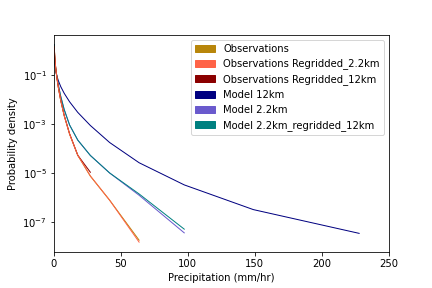
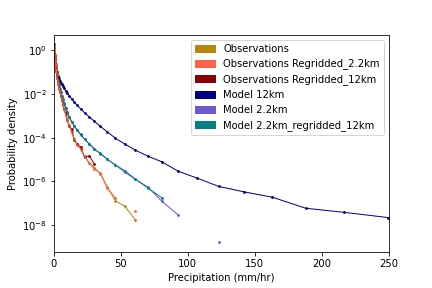
pdfs updated

diff --git a/PrecipitationPDFs/leeds-at-centre/Compare_RCM_CPM_OBS.py b/PrecipitationPDFs/leeds-at-centre/Compare_RCM_CPM_OBS.py
@@ -204,7 +204,7 @@ if jja_status == 'jja':
 ##############################################################################
 x_axis = 'linear'
 y_axis = 'log'
-bin_nos = 20 #(10 gives 12, 30 gives 29, 45 gives 41 bins)
+bin_nos = 60 #(10 gives 12, 30 gives 29, 45 gives 41 bins)
 xlim = 250
 bins_if_log_spaced= bin_nos
 
@@ -232,7 +232,7 @@ for dict, overlapping_status in zip([leeds_data_dict, leeds_data_dict_overlappin
     log_discrete_histogram_lesslegend(dict, cols_dict, bin_nos, "Precipitation (mm/hr)",
                                       patches, True, xlim, x_axis, y_axis)
     #Save
-    plt.savefig("Scripts/UKCP18/PrecipitationPDFs/leeds-at-centre/PDFs/RCMvsCPMvsObs/All{}_{}.png".format(overlapping_status, jja_status))
+    plt.savefig("Scripts/UKCP18/PrecipitationPDFs/leeds-at-centre/Figs/RCMvsCPMvsObs/All{}_{}.png".format(overlapping_status, jja_status))
 
 # ####### Plot - compring 2.2km model and 2.2km regridded observation
 for dict, overlapping_status in zip([leeds_data_dict, leeds_data_dict_overlapping], ["","_Overlapping"]):
@@ -250,7 +250,7 @@ for dict, overlapping_status in zip([leeds_data_dict, leeds_data_dict_overlappin
     # Create plot
     log_discrete_histogram_lesslegend(just_2_2kms, cols_dict, bin_nos, "Precipitation (mm/hr)",
                                       patches, True, False, x_axis, y_axis)
-    plt.savefig("Scripts/UKCP18/PrecipitationPDFs/leeds-at-centre/PDFs//ModelVsObs_2.2km_{}_{}.png".format(overlapping_status, jja_status))
+    plt.savefig("Scripts/UKCP18/PrecipitationPDFs/leeds-at-centre/Figs//ModelVsObs_2.2km_{}_{}.png".format(overlapping_status, jja_status))
 
 
 # ####### Plot just Model, to see effect of regridding
@@ -258,7 +258,6 @@ for dict, overlapping_status in zip([leeds_data_dict, leeds_data_dict_overlappin
     print(dict.keys(), overlapping_status)
     just_model = dict.copy()
     del just_model['Observations Regridded_2.2km'], just_model['Observations'], just_model['Observations Regridded_12km']
-FullTimePeriod_RCMvsCPMvsObs
     cols_dict = {'Model 12km' : 'navy',
                   'Model 2.2km' : 'slateblue',
                   'Model 2.2km_regridded_12km': 'teal'}
@@ -271,9 +270,8 @@ FullTimePeriod_RCMvsCPMvsObs
     # Create plot
     log_discrete_histogram_lesslegend(just_model, cols_dict, bin_nos, "Precipitation (mm/hr)",
                                       patches, True, False, x_axis, y_axis)
-    plt.savefig("Scripts/UKCP18/PrecipitationPDFs/leeds-at-centre/PDFs/RCMvsCPMvsObs/JustModel_{}_{}.png".format(overlapping_status,jja_status))
+    plt.savefig("Scripts/UKCP18/PrecipitationPDFs/leeds-at-centre/Figs/RCMvsCPMvsObs/JustModel_{}_{}.png".format(overlapping_status,jja_status))
 
-#
 # ###############################################################
 ####### Plot just Obs, to see effect of regridding
 for dict, overlapping_status in zip([leeds_data_dict, leeds_data_dict_overlapping], ["","_Overlapping"]):
@@ -294,7 +292,7 @@ for dict, overlapping_status in zip([leeds_data_dict, leeds_data_dict_overlappin
     # Create plot
     log_discrete_histogram_lesslegend(just_obs, cols_dict, bin_nos, "Precipitation (mm/hr)",
                                       patches, True, False, x_axis, y_axis)
-    plt.savefig("Scripts/UKCP18/PrecipitationPDFs/leeds-at-centre/PDFs/RCMvsCPMvsObs/JustObs_{}_{}.png".format(overlapping_status,jja_status))
+    plt.savefig("Scripts/UKCP18/PrecipitationPDFs/leeds-at-centre/Figs/RCMvsCPMvsObs/JustObs_{}_{}.png".format(overlapping_status,jja_status))
 
 #
 # ###############################################################
@@ -313,9 +311,9 @@ for key, val in cols_dict.items():
     patches.append(patch)
 
 # Create plot
-log_discrete_histogram_lesslegend(just_12km, cols_dict, bin_nos, "Precipitation (mm/hr)",
+log_discrete_histogram_lesslegend(just_12km, cols_dict, bin_no, "Precipitation (mm/hr)",
                                   patches, True, False, x_axis, y_axis)
-plt.savefig("Scripts/UKCP18/PrecipitationPDFs/leeds-at-centre/PDFs/RCMvsCPMvsObs/Just12kms_{}.png".format(jja_status))
+plt.savefig("Scripts/UKCP18/PrecipitationPDFs/leeds-at-centre/Figs/RCMvsCPMvsObs/Just12kms_{}.png".format(jja_status))
 
 # ##################### Plot just 12km -Better legend
 for dict, overlapping_status in zip([leeds_data_dict, leeds_data_dict_overlapping], ["","_Overlapping"]):
@@ -340,7 +338,7 @@ for dict, overlapping_status in zip([leeds_data_dict, leeds_data_dict_overlappin
     # Create plot
     df = log_discrete_histogram_lesslegend(just_12km, cols_dict, bin_nos, "Precipitation (mm/hr)",
                                       patches, True, False)
-    plt.savefig("Scripts/UKCP18/PrecipitationPDFs/leeds-at-centre/PDFs/RCMvsCPMvsObs/Just12kms_{}_{}.png".format(overlapping_status, jja_status))
+    plt.savefig("Scripts/UKCP18/PrecipitationPDFs/leeds-at-centre/Figs/RCMvsCPMvsObs/Just12kms_{}_{}.png".format(overlapping_status, jja_status))
 
 
 # # ##########################################################################
@@ -419,7 +417,7 @@ for dict, overlapping_status in zip([leeds_data_dict, leeds_data_dict_overlappin
 
 ##############################################################################
 ##############################################################################
-# Label with proportion of values which are 0, <0.1 etc
+# Table with proportion of values which are 0, <0.1 etc
 ###########################################################################
 ###########################################################################
 just_12km = leeds_data_dict_overlapping.copy()
@@ -460,7 +458,11 @@ model_2_2km = just_12km['Model 2.2km_regridded_12km']
 obs = just_12km['Observations Regridded_12km']
 bins = [0.01, 0.11, 0.21, 0.31, 0.41,0.51, 0.61,0.71,0.81,0.91,1]
 bins = [0.01, 0.21, 0.41, 0.61, 0.81, 1.01, 1.21, 1.41, 1.61 ,1.81, 2.01]
-#        ,2.21, 2.41, 2.61, 2.81, 3.01, 3.21, 3.41, 3.61, 3.81, 4.01]
+bins = [2.01, 4.01, 6.01, 8.01, 10.01, 12.01, 14.01, 16.01, 18.01, 20.01]
+bins = [10.01, 12.01, 14.01, 16.01, 18.01, 20.01, 22.01, 24.01, 26.01]
+
+bins = [20.01, 25.01, 30.01, 35.01, 40.01, 45.01, 50.01, 55.01, 60.01]
+
 
 plt.hist([obs['Precipitation (mm/hr)'], model_12km['Precipitation (mm/hr)'], model_2_2km['Precipitation (mm/hr)']],
           label = ['CEH-GEAR', 'UKCP18 12km', 'UKCP18 2.2km'],bins = bins,

diff --git a/RegionalRainfallStats/Model/Calculate_UKStats.py b/RegionalRainfallStats/Model/Calculate_UKStats.py
@@ -115,6 +115,20 @@ for em in ems:
     if overlapping_period == True:
       # Cut to only overlapping period
       jja = jja.extract(iris.Constraint(year = lambda cell: 1989 < cell < 2001))   
+      
+      
+      
+def smooth(cube,window):
+    return cube.rolling_window('time',iris.analysis.MEAN,window)
+
+# first plot..(merge across the top two cells)
+fig = matplotlib.pyplot.figure(figsize=(16,16))
+ax = matplotlib.pyplot.subplot2grid((2,2),(0,0),colspan=2)
+pid = iris.quickplot.plot(sat_ts,'grey')
+matplotlib.pyplot.axhline(0,linestyle='--',color='grey')
+iris.quickplot.plot(smooth(sat_ts, 12), 'r', linewidth=2.0, label='12-month rolling mean')
+leg = matplotlib.pyplot.legend(loc='lower right')
+
           
     ###########################################
     # Find Max, mean, percentiles
@@ -180,3 +194,113 @@ for em in ems:
 # print(output) 
 # 
    
+   
+   
+   import bottleneck
+import iris
+import numpy as np
+import warnings
+
+
+def _as_cube_coord(cube, name_or_coord):
+    """
+    Returns the cube coordinate corresponding to given coordinate name or cube
+    """
+    if isinstance(name_or_coord, basestring):
+        return cube.coord(name_or_coord)
+    elif isinstance(name_or_coord, iris.coords.Coord):
+        return cube.coord(coord=name_or_coord)
+    else:
+        raise TypeError('%r is not a string or coordinate' % name_or_coord)
+
+
+def _rolling_window_cube_template(cube, dimension, window):
+    """
+    Prepare a cube with the right shape and coordinates to use for a rolling
+    window
+    Copied from iris.cube.Cube.rolling_window
+    """
+    # Use indexing to get a result-cube of the correct shape.
+    # NB. This indexes the data array which is wasted work.
+    # As index-to-get-shape-then-fiddle is a common pattern, perhaps
+    # some sort of `cube.prepare()` method would be handy to allow
+    # re-shaping with given data, and returning a mapping of
+    # old-to-new-coords (to avoid having to use metadata identity)?
+    key = [slice(None, None)] * cube.ndim
+    key[dimension] = slice(None, cube.shape[dimension] - window + 1)
+    new_cube = cube[tuple(key)]
+
+    # now update all of the coordinates to reflect the aggregation
+    for coord_ in cube.coords(dimensions=dimension):
+        if coord_.has_bounds():
+            warnings.warn('The bounds of coordinate %r were ignored in '
+                          'the rolling window operation.' % coord_.name())
+
+        if coord_.ndim != 1:
+            raise ValueError('Cannot calculate the rolling '
+                             'window of %s as it is a multidimensional '
+                             'coordinate.' % coord_.name())
+
+        new_bounds = iris.util.rolling_window(coord_.points, window)
+
+        # Take the first and last element of the rolled window (i.e. the
+        # bounds)
+        new_bounds = new_bounds[:, (0, -1)]
+        new_points = np.mean(new_bounds, axis=-1)
+
+        # wipe the coords points and set the bounds
+        new_coord = new_cube.coord(coord=coord_)
+        new_coord.points = new_points
+        new_coord.bounds = new_bounds
+
+    return new_cube
+
+
+def bottleneck_rolling_window(cube, coord, method_name, window):
+    """
+    Perform fast rolling window aggregation on a cube using bottleneck
+    Like iris.cube.Cube.rolling_window, except much faster because the
+    computation is done with the `bottleneck` package. It takes the same
+    arguments as Cube.rolling_window except for 'method_name' instead of
+    'aggregator'.
+    Parameters
+    ----------
+    method_name : {'sum', 'nansum', 'mean', 'nanmean', 'median', 'std',
+                   'nanstd', 'min', 'nanmin', 'max', 'nanmax'}
+        Name of the operation to apply over the moving window. When prepended
+        with 'move_', must be the name of a top-level function in the
+        `bottleneck` package.
+    Reference
+    ---------
+        https://github.com/kwgoodman/bottleneck
+    """
+
+    window_func = getattr(bottleneck, 'move_' + method_name)
+    coord = _as_cube_coord(cube, coord)
+    dimension, = cube.coord_dims(coord)
+
+    # create a cube with the right metadata
+    new_cube = _rolling_window_cube_template(cube, dimension, window)
+    new_cube.add_cell_method(iris.coords.CellMethod(method_name, coord.name()))
+
+    # bottleneck returns an array of the same shape of the original data
+    # prepended with NaN, so we need a slice to trim NaNs along the window dim
+    bn_slice = tuple(slice(window - 1, None)
+                     if dim == dimension
+                     else slice(None)
+                     for dim in range(cube.ndim))
+    new_cube.data = window_func(cube.data, window, axis=dimension)[bn_slice]
+    return new_cube
+
+
+from iris.tests import stock
+
+
+def test_bottleneck_rolling_window():
+    cube = stock.realistic_4d()
+    expected = cube.rolling_window('time', iris.analysis.MEAN, 3)
+    actual = bottleneck_rolling_window(cube, 'time', 'mean', 3)
+    # n.b.: this test will need to be updated if/when cube equality changes to
+    # be elementwise instead of checking all cube data and metadata for
+    # approximate equality
+    assert expected == actual

diff --git a/GlobalFunctions/PDF_plotting_functions.py b/GlobalFunctions/PDF_plotting_functions.py
@@ -288,7 +288,7 @@ def log_discrete_histogram_lesslegend_array(results_dict, cols_dict, bin_nos, pr
     
     return numbers_in_each_bin
 
-    
+   
 def log_discrete_histogram_lesslegend(results_dict, cols_dict, bin_nos, precip_variable, patches, del_zeroes,
                                       xlim, x_axis_scaling = 'linear', y_axis_scaling = 'log'):
     
@@ -314,9 +314,6 @@ def log_discrete_histogram_lesslegend(results_dict, cols_dict, bin_nos, precip_v
         # Define the colour to use for this entry
         # Create a patch for this colour to be used in creating the legend
         # And add to list of patches for use in legend
-        #col = cols_dict[key]
-        #patch = mpatches.Patch(color=col, label=key)
-        #patches.append(patch)
         
         # Find the density in each biin  
         freqs, bin_edges = np.histogram(df[precip_variable], bins= bin_edges_planned, density=True)
@@ -335,12 +332,16 @@ def log_discrete_histogram_lesslegend(results_dict, cols_dict, bin_nos, precip_v
         # Delete those with a value of 0
         if del_zeroes == True:
             indexes = np.where(freqs == 0)[0]
-            freqs = np.delete(freqs, indexes)
-            bin_centres= np.delete(bin_centres,indexes)        
+            #freqs = np.delete(freqs, indexes)
+            #bin_centres= np.delete(bin_centres,indexes) 
+            for i in range(0, len(freqs)):
+                if i in indexes:
+                    freqs[i] = np.nan
 
         # Draw the plot
+        plt.scatter(bin_centres, freqs ,linewidth = 1,s=3, color = cols_dict[key])
         plt.plot(bin_centres, freqs ,linewidth = 1, color = cols_dict[key])
-        
+
     plt.legend(handles=patches)
     plt.xlabel(precip_variable)
     plt.ylabel('Probability density')
